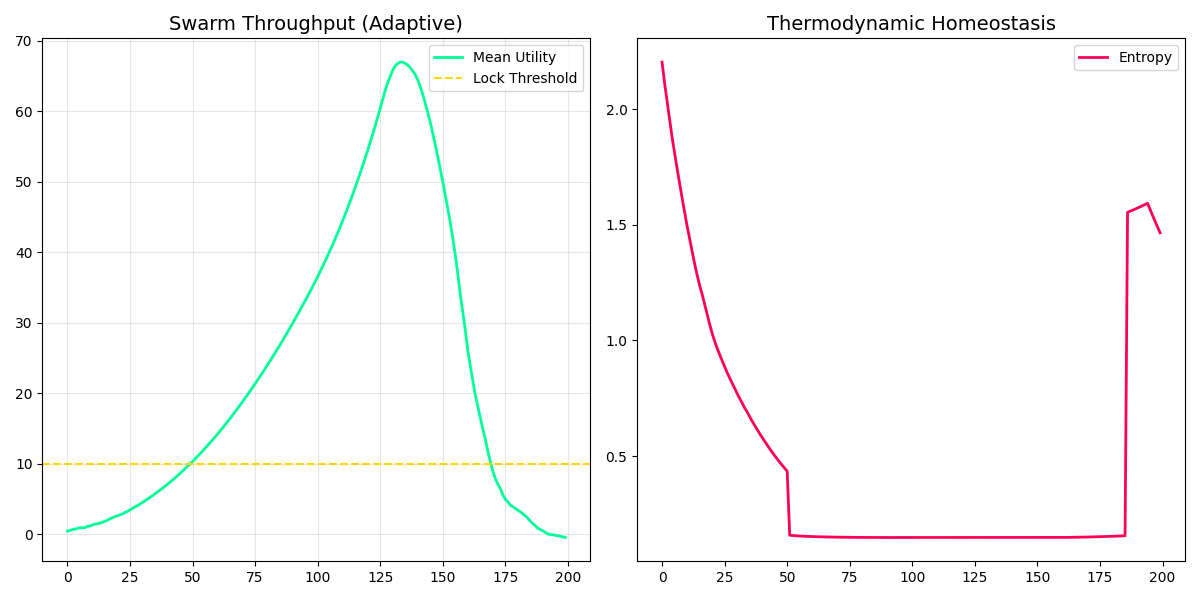
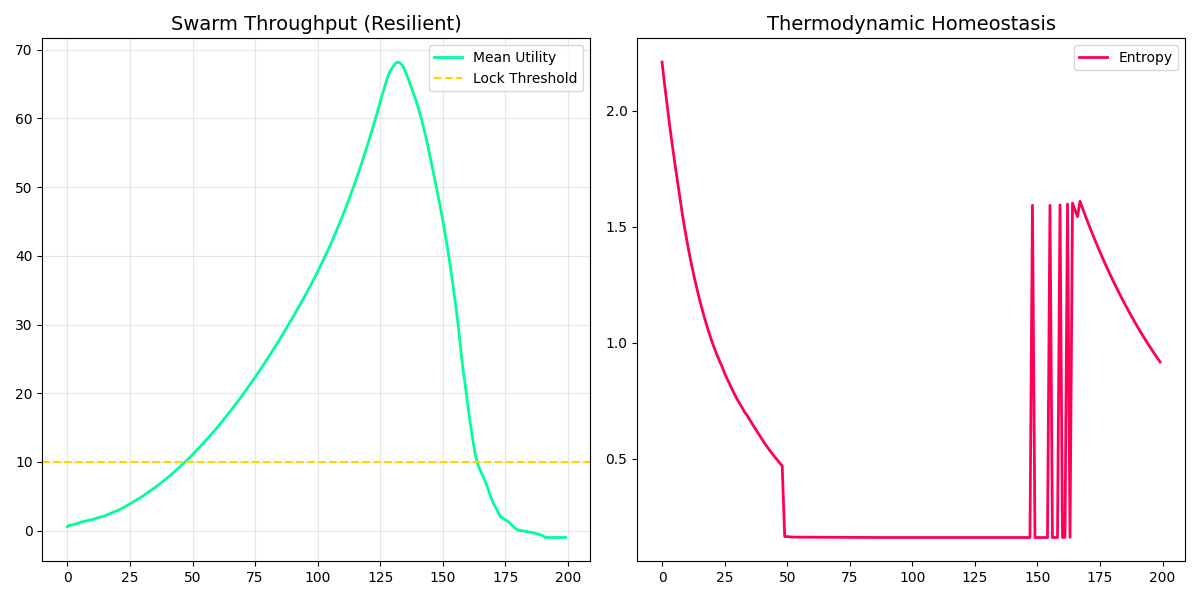
Phase 7.1: Final Swarm Architecture – Peak-Relative Thermodynamic Rescue & Sustainable Harvest (Peak 64.44)

diff --git a/swarm_sim.py b/swarm_sim.py
@@ -1,18 +1,18 @@
 import numpy as np
 import matplotlib.pyplot as plt
 
-# --- Configuration: Phase 7 Sustainable Harvest ---
+# --- Configuration: Phase 7.1 Peak-Relative Rescue ---
 NUM_AGENTS = 50
 EPOCHS = 200
 
-# 1. Sustainable Floor (Raised from 0.01 to 0.2)
-# We never let the system freeze completely; it must remain "liquid" enough to adapt.
+# 1. Sustainable Floor
 MIN_TEMP_FLOOR = 0.2
 INITIAL_TEMP = 1.5
 
-# 2. The Hunger Trigger (Re-Heat Logic)
-REHEAT_DROP_THRESHOLD = 0.15  # 15% drop triggers re-heat
-REHEAT_TEMP = 2.0             # The temperature injection
+# 2. The Rescue Trigger (Peak-Relative)
+# If reward drops below 75% of the historical max, we re-heat.
+RETENTION_THRESHOLD = 0.75
+REHEAT_TEMP = 2.0
 
 # Velcro Settings
 TARGET_REWARD = 10.0
@@ -51,7 +51,7 @@ class SwarmOrchestrator:
         self.global_temperature = INITIAL_TEMP
         self.system_entropy = []
         self.mean_performance = []
-        self.prev_epoch_reward = 0.0 # Memory for the "Hunger" check
+        self.peak_reward = 0.0 # FIX: Memory of the Empire's Height
 
     def calculate_system_entropy(self):
         return np.mean([a.sigma for a in self.agents]) * self.global_temperature
@@ -60,10 +60,9 @@ class SwarmOrchestrator:
         epoch_rewards = []
         
         for agent in self.agents:
-            # Action
             action = agent.act(self.global_temperature)
             
-            # Velocity Control (Inverse to Reward)
+            # Velocity Control
             if agent.last_reward > 0:
                 velocity = max(MIN_STEP, BASE_STEP / (1.0 + agent.last_reward))
             else:
@@ -71,9 +70,7 @@ class SwarmOrchestrator:
             
             agent.state += action * velocity
             
-            # Reward Calculation (Simulating Resource Depletion check)
-            # In a real dynamic env, the GOAL_STATE might move.
-            # Here, we simulate the "need" to re-verify by tracking drops.
+            # Reward Calculation
             dist = abs(GOAL_STATE - agent.state)
             base_reward = (100.0 - dist) / 10.0
             
@@ -90,24 +87,23 @@ class SwarmOrchestrator:
         self.mean_performance.append(avg_reward)
         self.system_entropy.append(self.calculate_system_entropy())
         
-        # --- PHASE 7: SUSTAINABLE LOGIC ---
+        # --- PHASE 7.1: PEAK-RELATIVE LOGIC ---
         
-        # 1. Calculate Drop
-        # Avoid division by zero on first run
-        if self.prev_epoch_reward > 0:
-            drop_ratio = (self.prev_epoch_reward - avg_reward) / self.prev_epoch_reward
-        else:
-            drop_ratio = 0.0
-            
+        # 1. Update the Historical Peak
+        self.peak_reward = max(self.peak_reward, avg_reward)
+        
         status_tag = "TRACKING"
 
-        # 2. The Hunger Trigger
-        if drop_ratio > REHEAT_DROP_THRESHOLD:
-            # Resource Exhaustion Detected! Re-Heat immediately.
+        # 2. The Rescue Trigger
+        # Only trigger if we've actually established a peak (> TARGET)
+        # AND we have fallen below 75% of that peak.
+        if self.peak_reward > TARGET_REWARD and avg_reward < (self.peak_reward * RETENTION_THRESHOLD):
             self.global_temperature = REHEAT_TEMP
-            status_tag = "RE-HEATING (HUNGER)"
+            status_tag = "RE-HEATING (RESCUE)"
+            # Optional: Reset peak slightly so we don't get stuck in a loop
+            self.peak_reward = avg_reward
         
-        # 3. The Velcro Brake (Only applies if NOT re-heating)
+        # 3. The Velcro Brake
         elif avg_reward > TARGET_REWARD:
             self.global_temperature *= BRAKE_FACTOR
             status_tag = "LOCKED (HARVESTING)"
@@ -116,16 +112,13 @@ class SwarmOrchestrator:
         else:
             self.global_temperature *= 0.98
 
-        # 5. Persistent Floor
         self.global_temperature = max(MIN_TEMP_FLOOR, self.global_temperature)
-        
-        self.prev_epoch_reward = avg_reward
         
         return avg_reward, status_tag
 
 def run_simulation():
-    print(f"Initializing Phase 7 (Sustainable Harvest)...")
-    print(f"Re-Heat Threshold: {REHEAT_DROP_THRESHOLD*100}% Drop")
+    print(f"Initializing Phase 7.1 (Peak-Relative Rescue)...")
+    print(f"Rescue Threshold: < {RETENTION_THRESHOLD*100}% of Peak")
     orchestrator = SwarmOrchestrator()
     
     for e in range(EPOCHS):
@@ -142,7 +135,7 @@ def run_simulation():
     plt.subplot(1, 2, 1)
     plt.plot(orchestrator.mean_performance, color='#00ff99', linewidth=2, label='Mean Utility')
     plt.axhline(y=TARGET_REWARD, color='gold', linestyle='--', label='Lock Threshold')
-    plt.title('Swarm Throughput (Adaptive)', fontsize=14)
+    plt.title('Swarm Throughput (Resilient)', fontsize=14)
     plt.grid(True, alpha=0.3)
     plt.legend()
 
